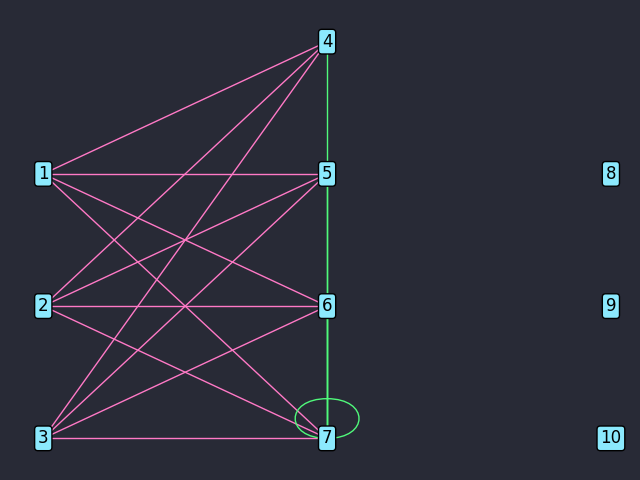
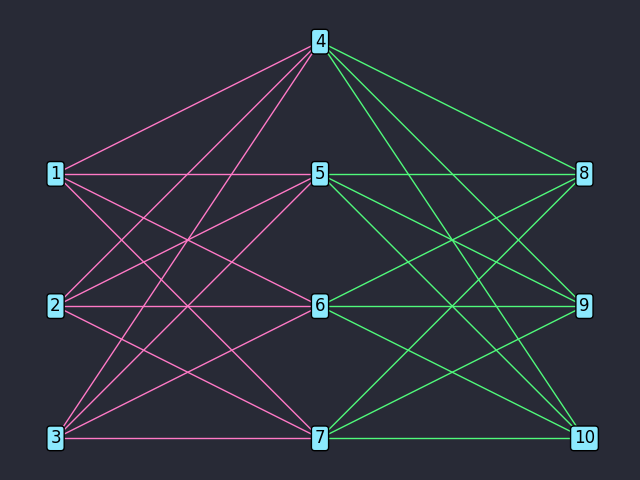
fix neural_network_plot

diff --git a/neural_network/snippets/neural_network_plot.py b/neural_network/snippets/neural_network_plot.py
@@ -18,7 +18,7 @@ for i in 1, 2, 3:
         G.add_edge(i, j, color="C1")
 for i in 4, 5, 6, 7:
     for j in 8, 9, 10:
-        G.add_edge(i, 7, color="C2")
+        G.add_edge(i, j, color="C2")
 
 nx.draw(
     G,
